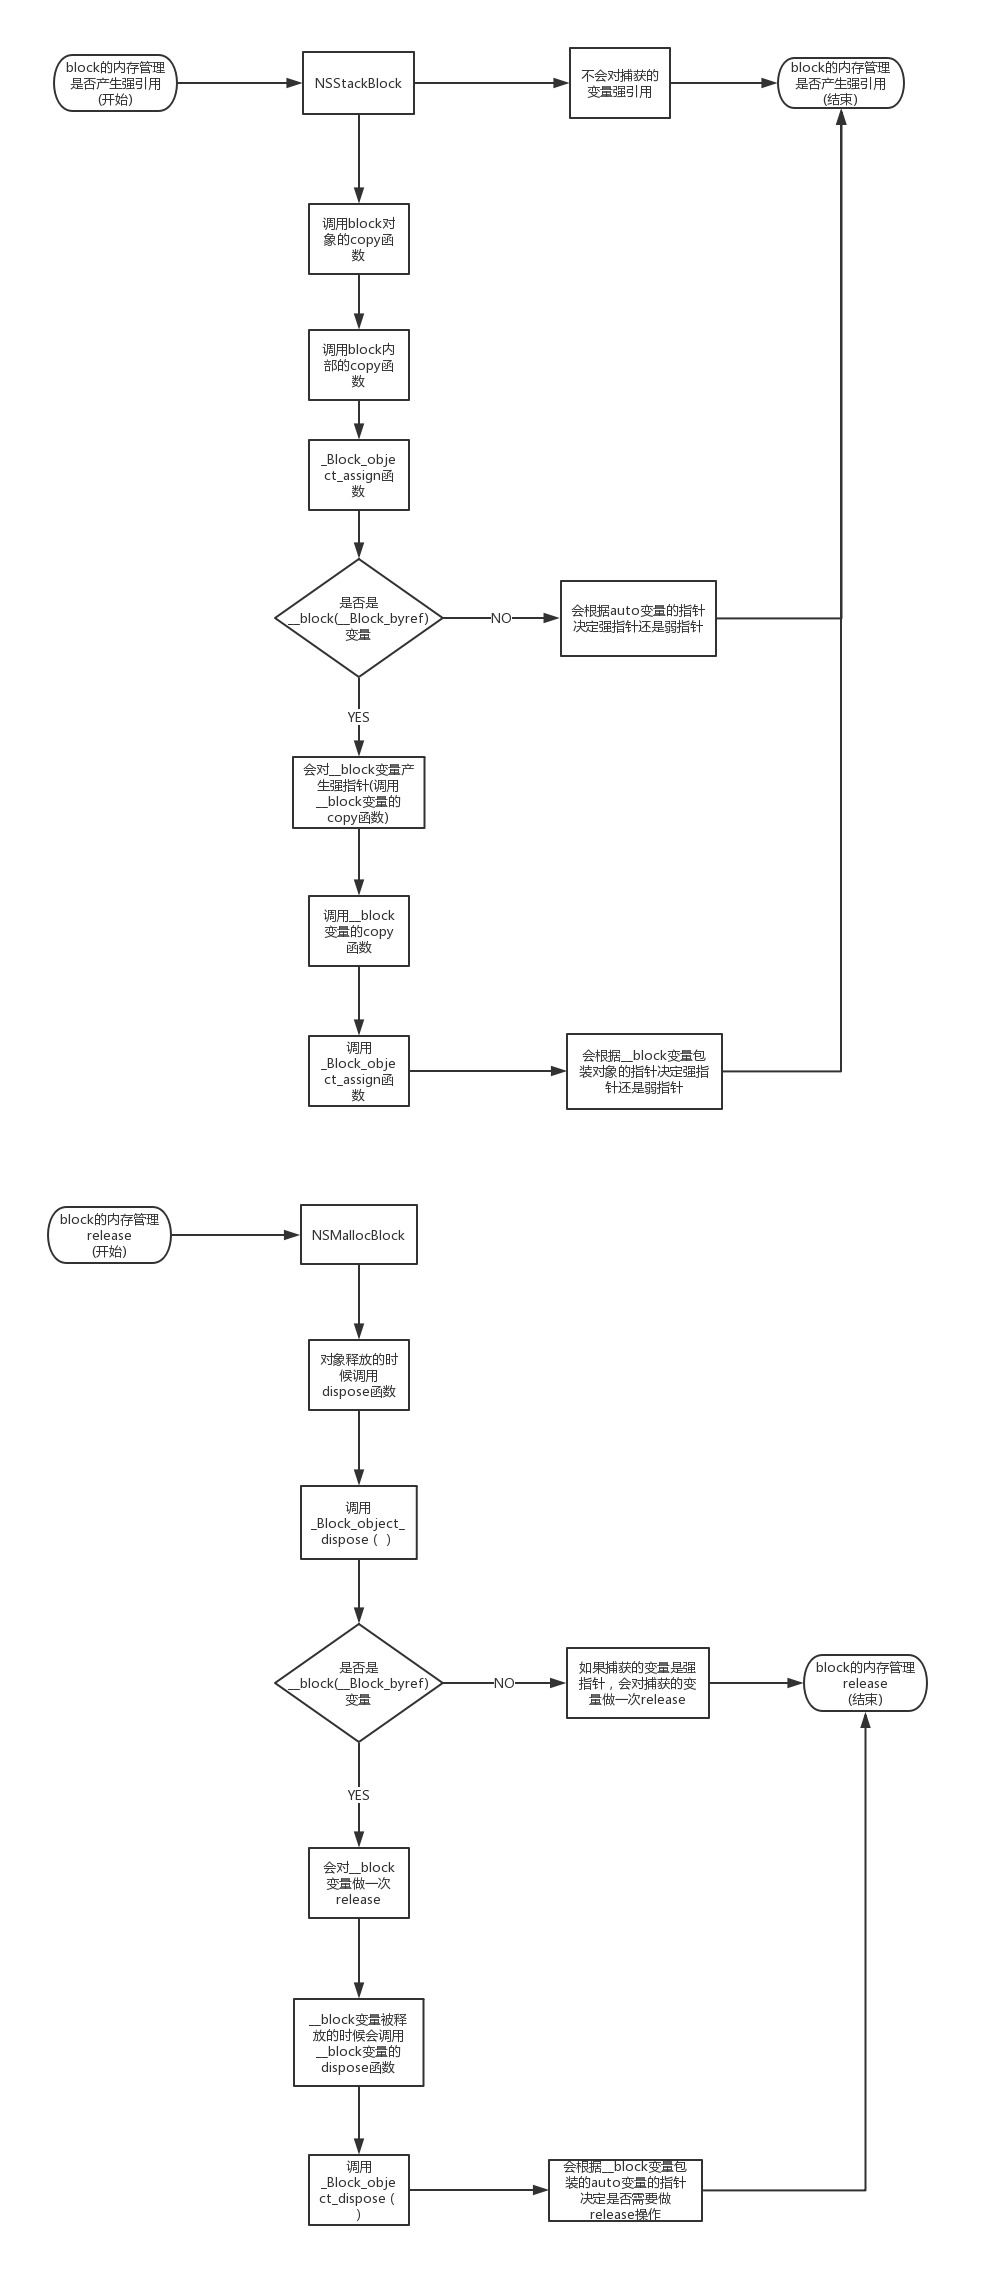
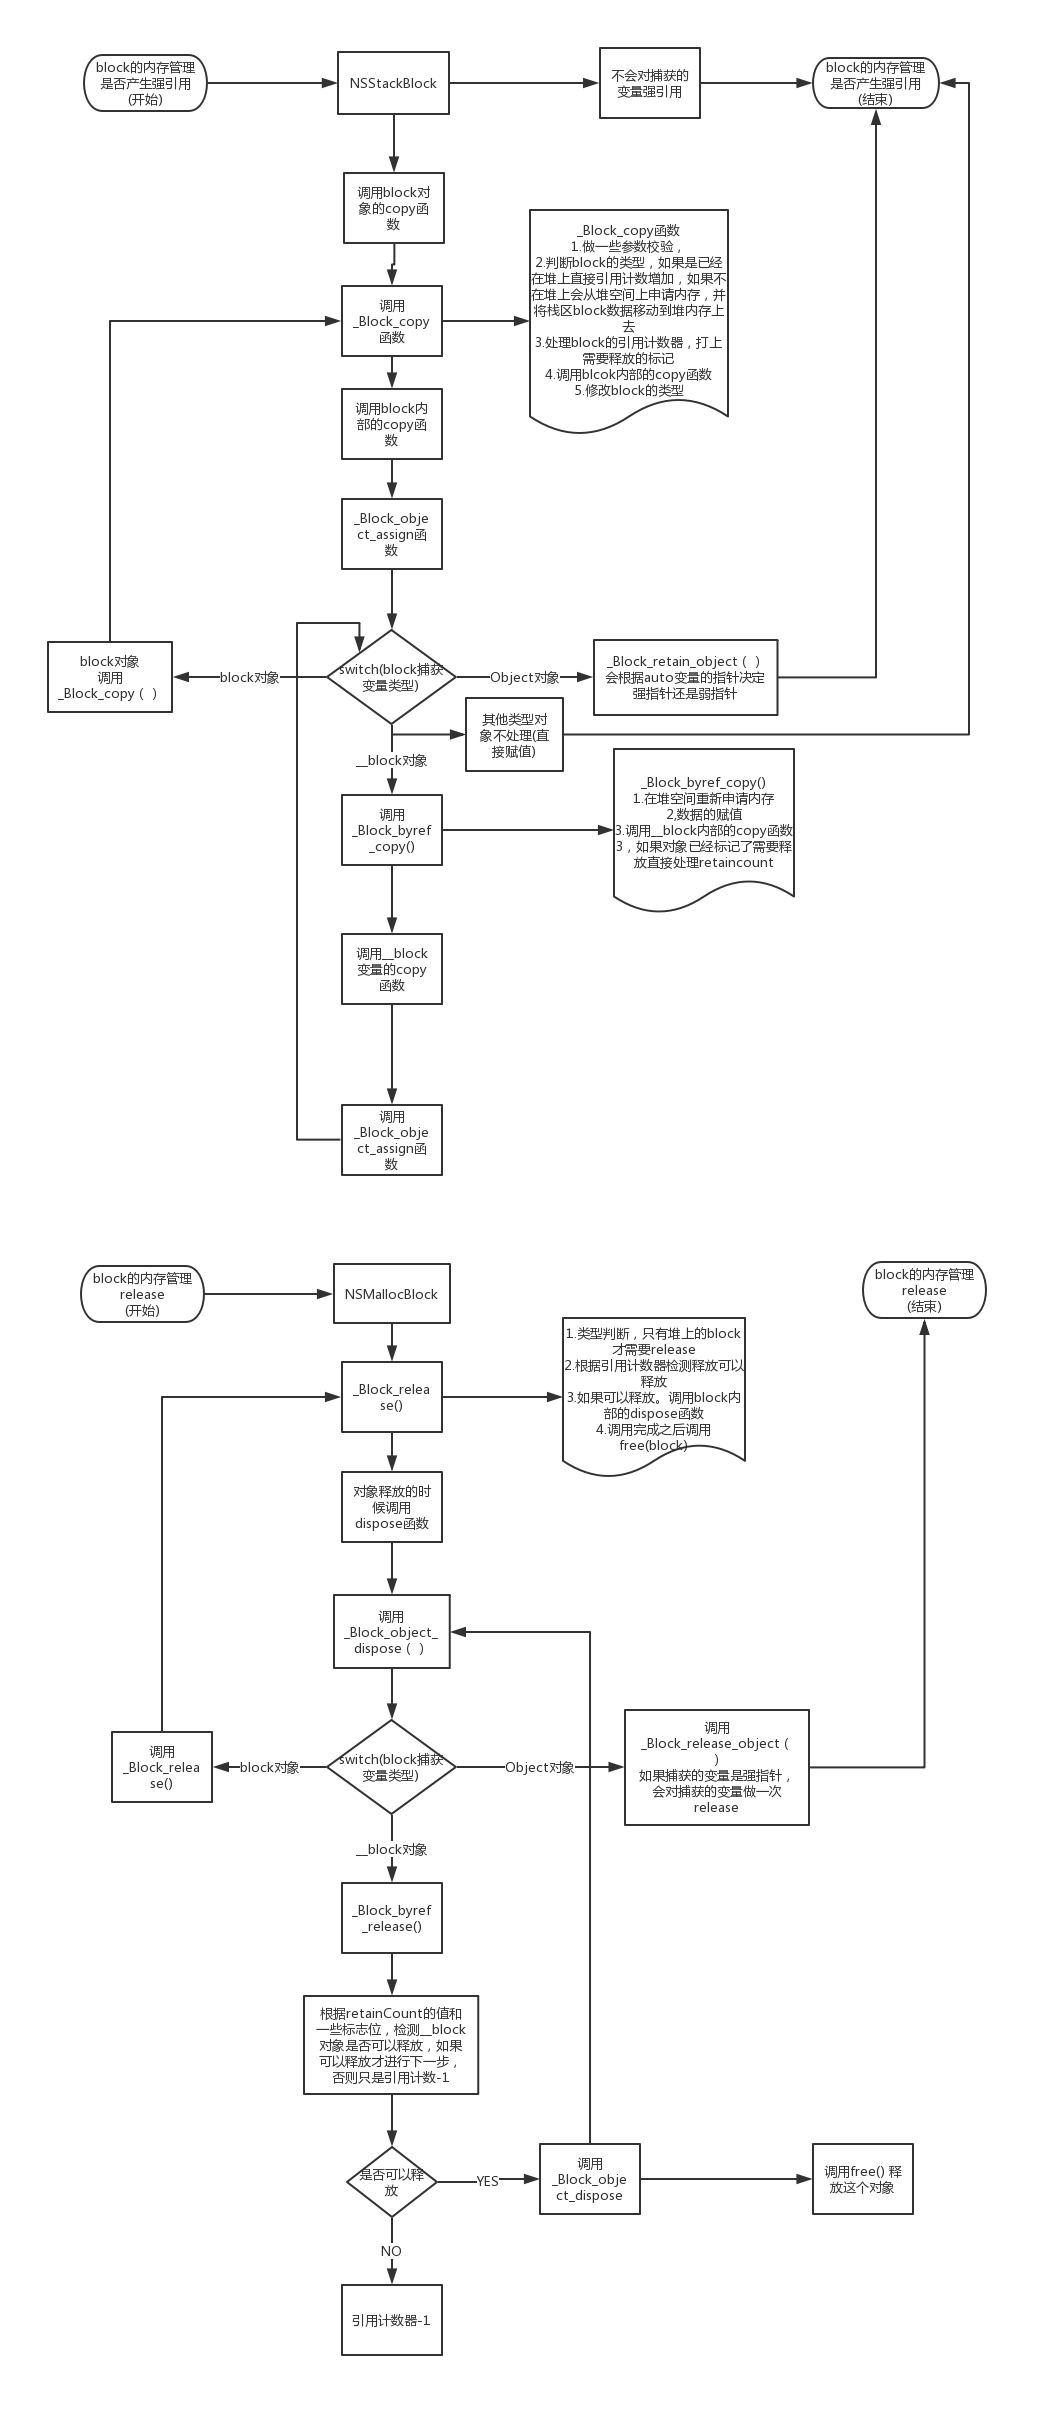
更新内存管理流程图

diff --git a/block/block源码/libclosure-73/runtime.cpp b/block/block源码/libclosure-73/runtime.cpp
@@ -285,7 +285,7 @@ static struct Block_byref *_Block_byref_copy(const void *arg) {
             memmove(copy+1, src+1, src->size - sizeof(*src));
         }
     }
-    // __block变量标志位标记已经在堆上， retainCount的处理
+    // __block变量已经标记需要释放， 直接处理retainCount
     else if ((src->forwarding->flags & BLOCK_BYREF_NEEDS_FREE) == BLOCK_BYREF_NEEDS_FREE) {
         latching_incr_int(&src->forwarding->flags);
     }
@@ -549,7 +549,7 @@ void _Block_object_dispose(const void *object, const int flags) {
         _Block_release(object);
         break;
       case BLOCK_FIELD_IS_OBJECT:
-            // 如果是OC对象类型 调用更深一层次的系统的方法
+            // 如果是OC Object类型 调用更深一层次的系统的方法
         _Block_release_object(object);
         break;
       case BLOCK_BYREF_CALLER | BLOCK_FIELD_IS_OBJECT:
